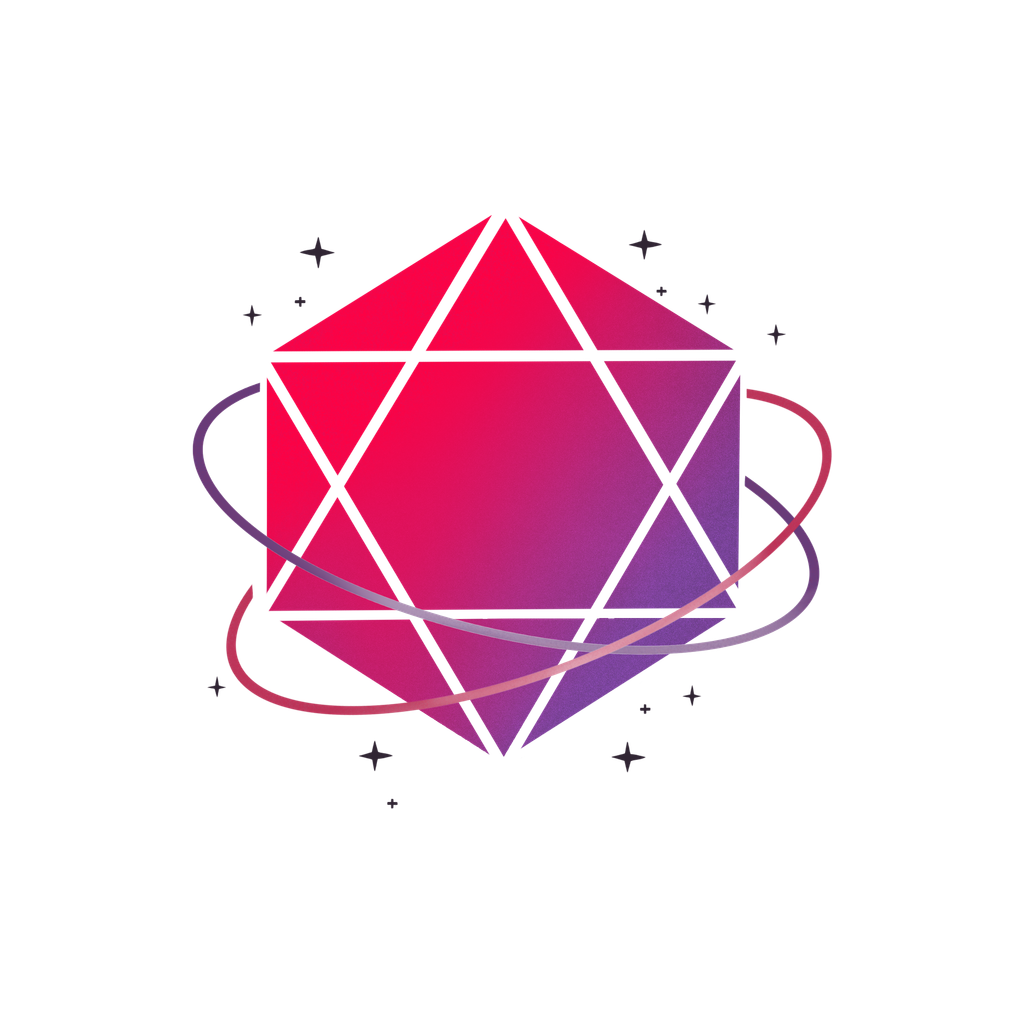
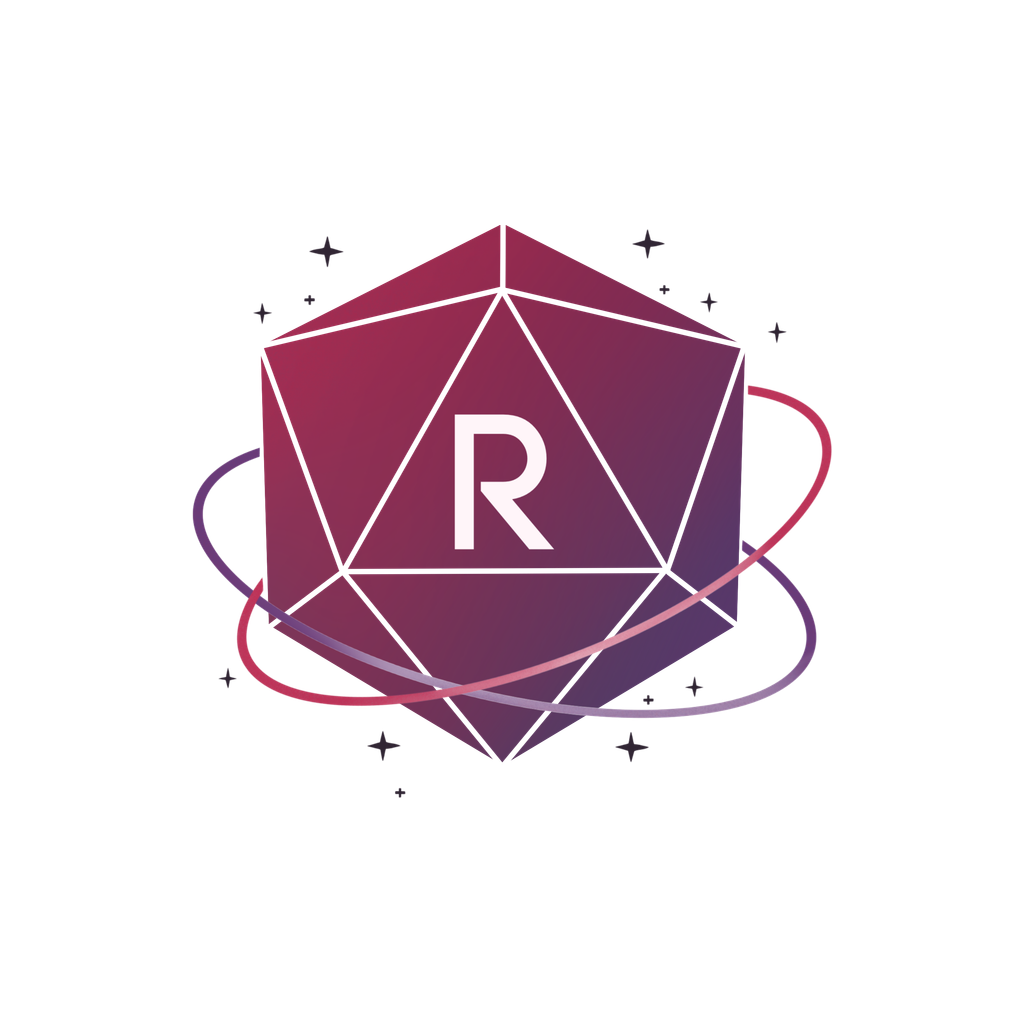
feat: arte de marca v3 — logoicon y logotext nuevos en toda la app (#187)
Los PNG entregados (logoicon: d20 icosaedro con la R y anillo orbital;
logotext: wordmark con el dado como o) sustituyen al arte v2 en todo:
cabecera y login (logotext recortado a su caja real), boton del feed y
overlays de match/OTA (logoicon a 256px para la UI, el master de 2048 queda
para iconos) e iconos de app regenerados (icon, PWA, favicon, adaptive,
splash). Los componentes SVG del dado desaparecen: la marca son los PNG tal
cual. roldr-logo-v2 fuera, sustituido.

diff --git a/src/components/brand.tsx b/src/components/brand.tsx
@@ -1,95 +1,52 @@
-// Marca Roldr (logo 2026-08): wordmark «R⟐ldr» con el d20 de facetas como
-// «o», en gradiente carmesí→púrpura. El dado es SVG (react-native-svg);
-// las letras son <Text> planos porque sus colores son sólidos — así la
-// versión web (brand.web.tsx) comparte forma. Mantener exports en paralelo.
+// Marca Roldr (arte 2026-08 v3): logoicon.png (d20 icosaedro con la R y
+// anillo orbital) y logotext.png (wordmark «Roldr» con el dado como «o»).
+// Son los PNG entregados TAL CUAL — no se recrean en SVG; logotext-trim.png
+// es el mismo arte recortado a su caja real (el lienzo original trae ~74%
+// de margen transparente que rompería el layout de las cabeceras).
+// Mantener exports en paralelo con brand.web.tsx.
 
-import { useId } from 'react';
-import { StyleSheet, Text, View } from 'react-native';
+import { Image } from 'react-native';
 import Svg, {
   Defs,
   LinearGradient as SvgGradient,
-  Polygon,
   Stop,
   Text as SvgText,
 } from 'react-native-svg';
+import { useId } from 'react';
 
-import { Rolder } from '@/constants/theme';
-
-// Gradiente propio del logo — más profundo que los acentos coral/violeta
-// de la UI, que no cambian.
+// Gradiente de textos de marca (p. ej. «¡Es un match!») — sigue el arte.
 export const BRAND_CRIMSON = '#DE1458';
 export const BRAND_PURPLE = '#8E44AD';
-const DIE_FROM = '#F50747';
-const DIE_TO = '#7A4FC0';
 
-// Las letras del wordmark van en Poppins (geométrica: cuencos circulares,
-// pata recta de la R) — el arte de marca 2026-08 no es Sora, que sigue
-// siendo la fuente del resto de la UI.
-const WORDMARK_FONT = 'Poppins_600SemiBold';
+// logoicon-ui es el mismo arte a 256px: el master de 2048 pesa 1 MB y en
+// la UI nunca se pinta a más de ~80px (el master queda para los iconos)
+const LOGO_ICON = require('../../assets/logoicon-ui.png');
+const LOGO_TEXT = require('../../assets/logotext-trim.png');
+// caja real del wordmark recortado (1000×288)
+const WORDMARK_RATIO = 1000 / 288;
 
-type LogoProps = {
-  /** ancho en px; el alto mantiene el ratio 44:48 del hexágono */
-  width?: number;
-  /** color de las juntas entre facetas (por defecto, el fondo de página) */
-  line?: string;
-};
-
-/** El d20 de facetas — icono de la marca (la «o» del wordmark) */
-export function RolderLogo({ width = 24, line }: LogoProps) {
-  // id único por instancia: con id fijo, durante la transición de ruta
-  // conviven dos <defs> iguales y al desmontarse el viejo el url(#...) del
-  // dado que queda se rompe (hexágono invisible hasta recargar)
-  const dieId = `roldr-die-${useId().replace(/:/g, '')}`;
-  const height = (width * 48) / 44;
-  const stroke = line ?? Rolder.page;
-  const joint = Math.max(1.4, width * 0.055);
-  return (
-    <Svg width={width} height={height} viewBox="0 0 44 48">
-      <Defs>
-        <SvgGradient id={dieId} x1="0" y1="0" x2="1" y2="1">
-          <Stop offset="0" stopColor={DIE_FROM} />
-          <Stop offset="1" stopColor={DIE_TO} />
-        </SvgGradient>
-      </Defs>
-      <Polygon points="22,1 43,13 43,35 22,47 1,35 1,13" fill={`url(#${dieId})`} />
-      {/* la estrella de facetas: las dos caras trianguladas del d20 */}
-      <Polygon
-        points="22,1 43,35 1,35"
-        fill="none"
-        stroke={stroke}
-        strokeWidth={joint}
-        strokeLinejoin="round"
-      />
-      <Polygon
-        points="1,13 43,13 22,47"
-        fill="none"
-        stroke={stroke}
-        strokeWidth={joint}
-        strokeLinejoin="round"
-      />
-    </Svg>
-  );
+/** El d20 orbital de la marca (logoicon.png, arte original) */
+export function RolderLogo({ width = 24 }: { width?: number }) {
+  return <Image source={LOGO_ICON} style={{ width, height: width }} resizeMode="contain" />;
 }
 
-type WordmarkProps = {
-  /** tamaño de fuente del wordmark */
-  size?: number;
-};
-
-/** «Roldr» con el d20 como «o» — carmesí a la izquierda, púrpura a la derecha */
-export function RolderWordmark({ size = 21 }: WordmarkProps) {
+/** «Roldr» con el d20 como «o» (logotext.png, arte original) */
+export function RolderWordmark({ size = 21 }: { size?: number }) {
+  const height = size * 1.15;
   return (
-    <View style={[styles.row, { gap: size * 0.13 }]}>
-      <Text style={[styles.letters, { fontSize: size, color: BRAND_CRIMSON }]}>R</Text>
-      <RolderLogo width={size * 0.92} />
-      <Text style={[styles.letters, { fontSize: size, color: BRAND_PURPLE }]}>ldr</Text>
-    </View>
+    <Image
+      source={LOGO_TEXT}
+      style={{ width: height * WORDMARK_RATIO, height }}
+      resizeMode="contain"
+    />
   );
 }
 
 /** Texto arbitrario con el gradiente de marca (p. ej. «¡Es un match!») */
 export function RolderGradientText({ text, size = 34 }: { text: string; size?: number }) {
-  // id único por instancia — mismo motivo que en RolderLogo
+  // id único por instancia: con id fijo, durante la transición de ruta
+  // conviven dos <defs> iguales y al desmontarse el viejo el url(#...) se
+  // rompe (texto invisible hasta recargar)
   const textId = `roldr-gtext-${useId().replace(/:/g, '')}`;
   const width = Math.max(text.length * size * 0.62, size * 4);
   const height = size * 1.4;
@@ -125,16 +82,3 @@ export function RolderBrand({
 }) {
   return <RolderWordmark size={wordmarkSize + 3} />;
 }
-
-const styles = StyleSheet.create({
-  row: {
-    flexDirection: 'row',
-    alignItems: 'center',
-  },
-  letters: {
-    fontFamily: WORDMARK_FONT,
-    fontWeight: '600',
-    letterSpacing: -0.5,
-    includeFontPadding: false,
-  },
-});

diff --git a/src/components/brand.web.tsx b/src/components/brand.web.tsx
@@ -1,75 +1,37 @@
-// Marca Roldr — versión WEB. El dado usa <svg> del DOM (los gradientes del
-// navegador funcionan; el gotcha era react-native-svg) y las letras son
-// spans con color sólido. La versión nativa vive en brand.tsx — mantener
-// los exports de ambos archivos en paralelo.
+// Marca Roldr — versión WEB. Logo y wordmark son los mismos PNG del arte
+// original que en brand.tsx (react-native Image renderiza <img> en web);
+// solo el texto con gradiente difiere: aquí usa background-clip de CSS
+// (el gotcha histórico eran los gradientes de react-native-svg en web).
+// Mantener exports en paralelo con brand.tsx.
 
-import { type CSSProperties, useId } from 'react';
-
-import { Rolder } from '@/constants/theme';
+import { Image } from 'react-native';
 
 export const BRAND_CRIMSON = '#DE1458';
 export const BRAND_PURPLE = '#8E44AD';
-const DIE_FROM = '#F50747';
-const DIE_TO = '#7A4FC0';
 
 const GRADIENT = `linear-gradient(90deg, ${BRAND_CRIMSON}, ${BRAND_PURPLE})`;
-// Las letras del wordmark van en Poppins (geométrica) — el arte de marca
-// 2026-08 no es Sora, que sigue siendo la fuente del resto de la UI.
-const WORDMARK_FONT = 'Poppins_600SemiBold, Poppins, sans-serif';
 
-/** El d20 de facetas — icono de la marca (la «o» del wordmark) */
-export function RolderLogo({ width = 24, line }: { width?: number; line?: string }) {
-  // id único por instancia: con id fijo, durante la transición de ruta
-  // conviven dos <defs> iguales y al desmontarse el viejo el url(#...) del
-  // dado que queda se rompe (hexágono invisible hasta recargar)
-  const dieId = `roldr-die-${useId().replace(/:/g, '')}`;
-  const height = (width * 48) / 44;
-  const stroke = line ?? Rolder.page;
-  const joint = Math.max(1.4, width * 0.055);
-  return (
-    <svg width={width} height={height} viewBox="0 0 44 48" style={{ flexShrink: 0 }}>
-      <defs>
-        <linearGradient id={dieId} x1="0" y1="0" x2="1" y2="1">
-          <stop offset="0" stopColor={DIE_FROM} />
-          <stop offset="1" stopColor={DIE_TO} />
-        </linearGradient>
-      </defs>
-      <polygon points="22,1 43,13 43,35 22,47 1,35 1,13" fill={`url(#${dieId})`} />
-      <polygon
-        points="22,1 43,35 1,35"
-        fill="none"
-        stroke={stroke}
-        strokeWidth={joint}
-        strokeLinejoin="round"
-      />
-      <polygon
-        points="1,13 43,13 22,47"
-        fill="none"
-        stroke={stroke}
-        strokeWidth={joint}
-        strokeLinejoin="round"
-      />
-    </svg>
-  );
+// logoicon-ui es el mismo arte a 256px: el master de 2048 pesa 1 MB y en
+// la UI nunca se pinta a más de ~80px (el master queda para los iconos)
+const LOGO_ICON = require('../../assets/logoicon-ui.png');
+const LOGO_TEXT = require('../../assets/logotext-trim.png');
+// caja real del wordmark recortado (1000×288)
+const WORDMARK_RATIO = 1000 / 288;
+
+/** El d20 orbital de la marca (logoicon.png, arte original) */
+export function RolderLogo({ width = 24 }: { width?: number }) {
+  return <Image source={LOGO_ICON} style={{ width, height: width }} resizeMode="contain" />;
 }
 
-/** «Roldr» con el d20 como «o» — carmesí a la izquierda, púrpura a la derecha */
+/** «Roldr» con el d20 como «o» (logotext.png, arte original) */
 export function RolderWordmark({ size = 21 }: { size?: number }) {
-  const letter = (color: string): CSSProperties => ({
-    fontFamily: WORDMARK_FONT,
-    fontWeight: 600,
-    fontSize: size,
-    letterSpacing: '-0.02em',
-    color,
-    lineHeight: 1.2,
-    userSelect: 'none',
-  });
+  const height = size * 1.15;
   return (
-    <span style={{ display: 'inline-flex', alignItems: 'center', gap: size * 0.13 }}>
-      <span style={letter(BRAND_CRIMSON)}>R</span>
-      <RolderLogo width={size * 0.92} />
-      <span style={letter(BRAND_PURPLE)}>ldr</span>
-    </span>
+    <Image
+      source={LOGO_TEXT}
+      style={{ width: height * WORDMARK_RATIO, height }}
+      resizeMode="contain"
+    />
   );
 }
 

diff --git a/src/components/bottom-nav-bar.tsx b/src/components/bottom-nav-bar.tsx
@@ -77,9 +77,9 @@ function TabIcon({
   );
 }
 
-// El arte original de marca (assets/roldr-logo-v2.png), tal cual — no se
-// recrea en SVG: es un diseño entregado y no se toca.
-const DIE_ART = require('../../assets/roldr-logo-v2.png');
+// El arte original de marca (logoicon a 256px), tal cual — no se recrea
+// en SVG: es un diseño entregado y no se toca.
+const DIE_ART = require('../../assets/logoicon-ui.png');
 
 function FeedIcon({ active }: { active: boolean }) {
   return (
@@ -246,11 +246,11 @@ const styles = StyleSheet.create({
     alignItems: 'center',
     justifyContent: 'center',
   },
-  // el canvas del arte trae ~33% de margen transparente: se pinta a 92px
+  // el canvas del arte trae ~20% de margen transparente: se pinta a 78px
   // para que el dado visible quede en torno a 60px
   feedDie: {
-    width: 92,
-    height: 92,
+    width: 78,
+    height: 78,
   },
   feedGlow: {
     position: 'absolute',
